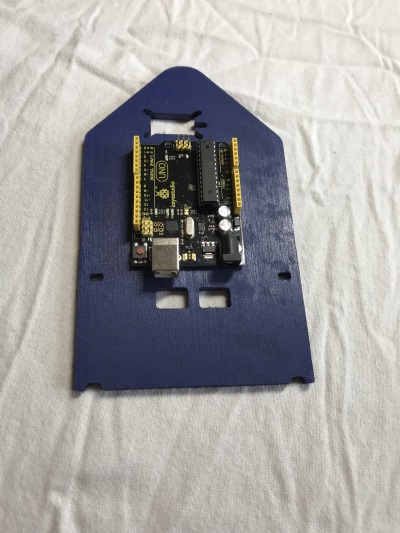
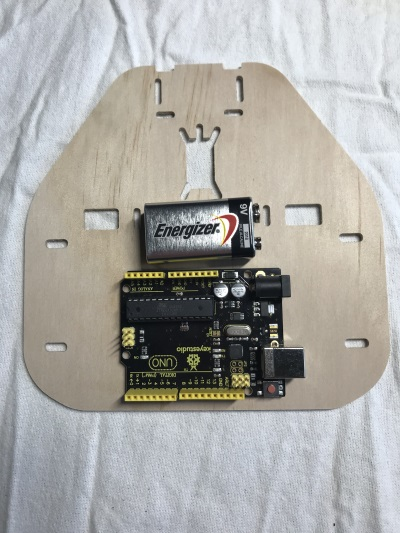
replaced adding arduino with new chassis instructions

diff --git a/_posts/2017-06-13-maze-arduino-breadboard.md b/_posts/2017-06-13-maze-arduino-breadboard.md
@@ -20,8 +20,8 @@ Set the chassis in front of you so that it looks like this:
 #### Attach the Arduino
 
 * Locate the Arduino in your kit.
-* Turn the Arduino so that the power and USB ports are facing the rear of the robot.
-* Attach the Arduino to the chassis making sure not to cover up any of the holes that will be used later.
+* Turn the Arduino so that the power and USB ports are facing the right of the robot.
+* Attach the Arduino to the rear of the chassis making sure to leave room for the 9V battery we will be using later
 
 ![AttachArduino]({{site.baseurl}}/assets/mazerunner/attach_arduino.jpg)
 
